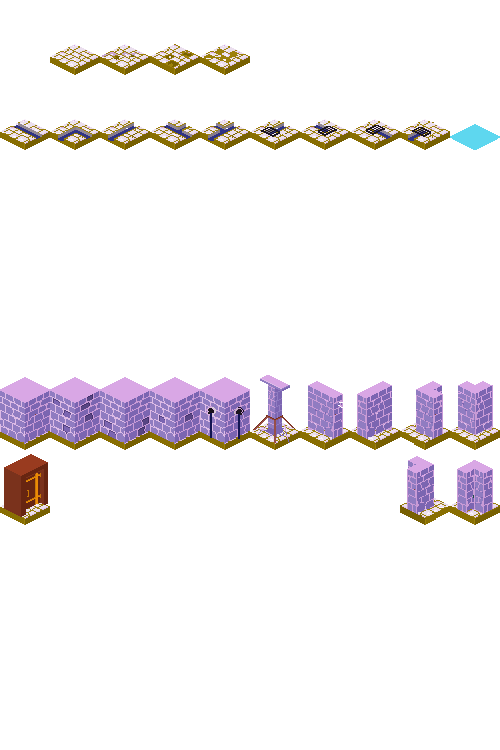
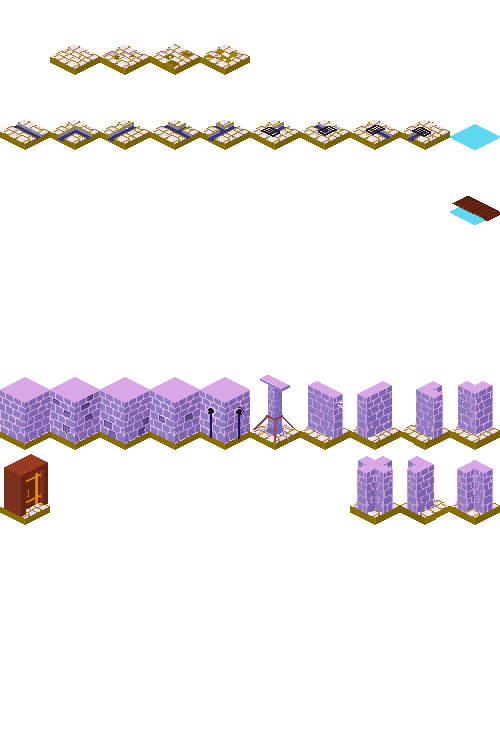
Added bridge and connector for skinny walls.

Changed region(s): [[0.69, 0.6133, 0.81, 0.7053], [0.9, 0.2453, 1.0, 0.3067]]

diff --git a/js/world/world.js b/js/world/world.js
@@ -35,7 +35,7 @@ var levelOne = [
 					 50,  1,  1,  1,  1,  1,  1,  3,  1,  1,  1, 19,  1,  1, 57,  1,  1,  1,  1,  1,
 					 53,  1,  1,  1,  1,  1, 55,  1,  1,  3,  1, 19,  1,  3, 58, 56, 56, 56, 56, 56,
 					 60,  1,  1,  1,  1,  1,  1,  3,  1,  1,  1, 19,  3,  1,  3,  1,  1,  1,  1,  1,
-					 52, 18, 69, 56, 56, 56, 56, 68,  1,  1,  1, 19,  4,  1,  1,  1,  1,  1,  1,  1,
+					 52, 18, 69, 56, 56, 56, 56, 68,  1,  1,  1, 29,  4,  1,  1,  1,  1,  1,  1,  1,
 					 54, 14, 57,  1,  1,  1,155, 57,  3,  1,  1, 19,  1,  1,  1,  1,  4,  1,  1,  1,
 					 52, 12, 57,  1,  1,  1,  1, 57,  1,  1,  1, 19, 19, 19, 19, 19, 19, 19, 19, 19,
 					 52, 12, 57,  1,  1,  1,  1, 57,  1,101,  1, 19,  1,  1,  1,  1,  1,  1,  1,  1,
@@ -73,6 +73,7 @@ var levelTwo =[
 	const TILE_FLOOR_SEWER_8 = 17;
 	const TILE_FLOOR_SEWER_9 = 18;
 	const TILE_WATER = 19;
+	const TILE_BRIDGE_1 = 29;
 	//Wall Tiles 50 through 99
 	const TILE_WALL_STONE_1 = 50;
 	const TILE_WALL_STONE_2 = 51;
@@ -85,8 +86,9 @@ var levelTwo =[
 	const TILE_WALL_STONE_8 = 58;
 	const TILE_WALL_STONE_9 = 59;
 	const TILE_WOODEN_DOOR_1 = 60;
-	const TILE_WALL_STONE_10 = 68;
-	const TILE_WALL_STONE_11 = 69;
+	const TILE_WALL_STONE_10 = 67;
+	const TILE_WALL_STONE_11 = 68;
+	const TILE_WALL_STONE_12 = 69;
 	//Player and Enemies 100 through 149
 	const TILE_WIZARD = 100;
 	const TILE_WARRIOR = 101;
@@ -110,7 +112,7 @@ var levelTwo =[
 
 	var tileNavData = [
 		{navMode: NAVMODE_IMPASSIBLE, tileTypes: [TILE_WALL_STONE_1, TILE_WALL_STONE_2, TILE_WALL_STONE_3, TILE_WALL_STONE_4, TILE_WALL_STONE_5, TILE_COLUMN_STONE_1, TILE_WALL_STONE_6, TILE_WALL_STONE_7, TILE_WALL_STONE_8]},
-		{navMode: NAVMODE_WALKABLE, tileTypes: [TILE_FLOOR_SEWER_1, TILE_FLOOR_SEWER_2, TILE_FLOOR_SEWER_3, TILE_FLOOR_SEWER_4, TILE_FLOOR_SEWER_5, TILE_FLOOR_SEWER_6, TILE_FLOOR_SEWER_7, TILE_FLOOR_SEWER_8, TILE_FLOOR_SEWER_9, TILE_FLOOR_STONE_1, TILE_FLOOR_STONE_2, TILE_FLOOR_STONE_3, TILE_FLOOR_STONE_4]},
+		{navMode: NAVMODE_WALKABLE, tileTypes: [TILE_FLOOR_SEWER_1, TILE_FLOOR_SEWER_2, TILE_FLOOR_SEWER_3, TILE_FLOOR_SEWER_4, TILE_FLOOR_SEWER_5, TILE_FLOOR_SEWER_6, TILE_FLOOR_SEWER_7, TILE_FLOOR_SEWER_8, TILE_FLOOR_SEWER_9, TILE_FLOOR_STONE_1, TILE_FLOOR_STONE_2, TILE_FLOOR_STONE_3, TILE_FLOOR_STONE_4, TILE_BRIDGE_1]},
 		{navMode: NAVMODE_FLYABLE, tileTypes: [TILE_WATER]},
 		{navMode: NAVMODE_LOCKED, tileTypes: [TILE_WOODEN_DOOR_1]},
 	];

diff --git a/js/initiative.js b/js/initiative.js
@@ -16,7 +16,6 @@ function TurnOrderClass(whichName, isHuman) {
     this.myTurn = false;
 }
 
-
 function determineSequenceOrder() {
     //determine order for active entities (player/enemies)
 }
